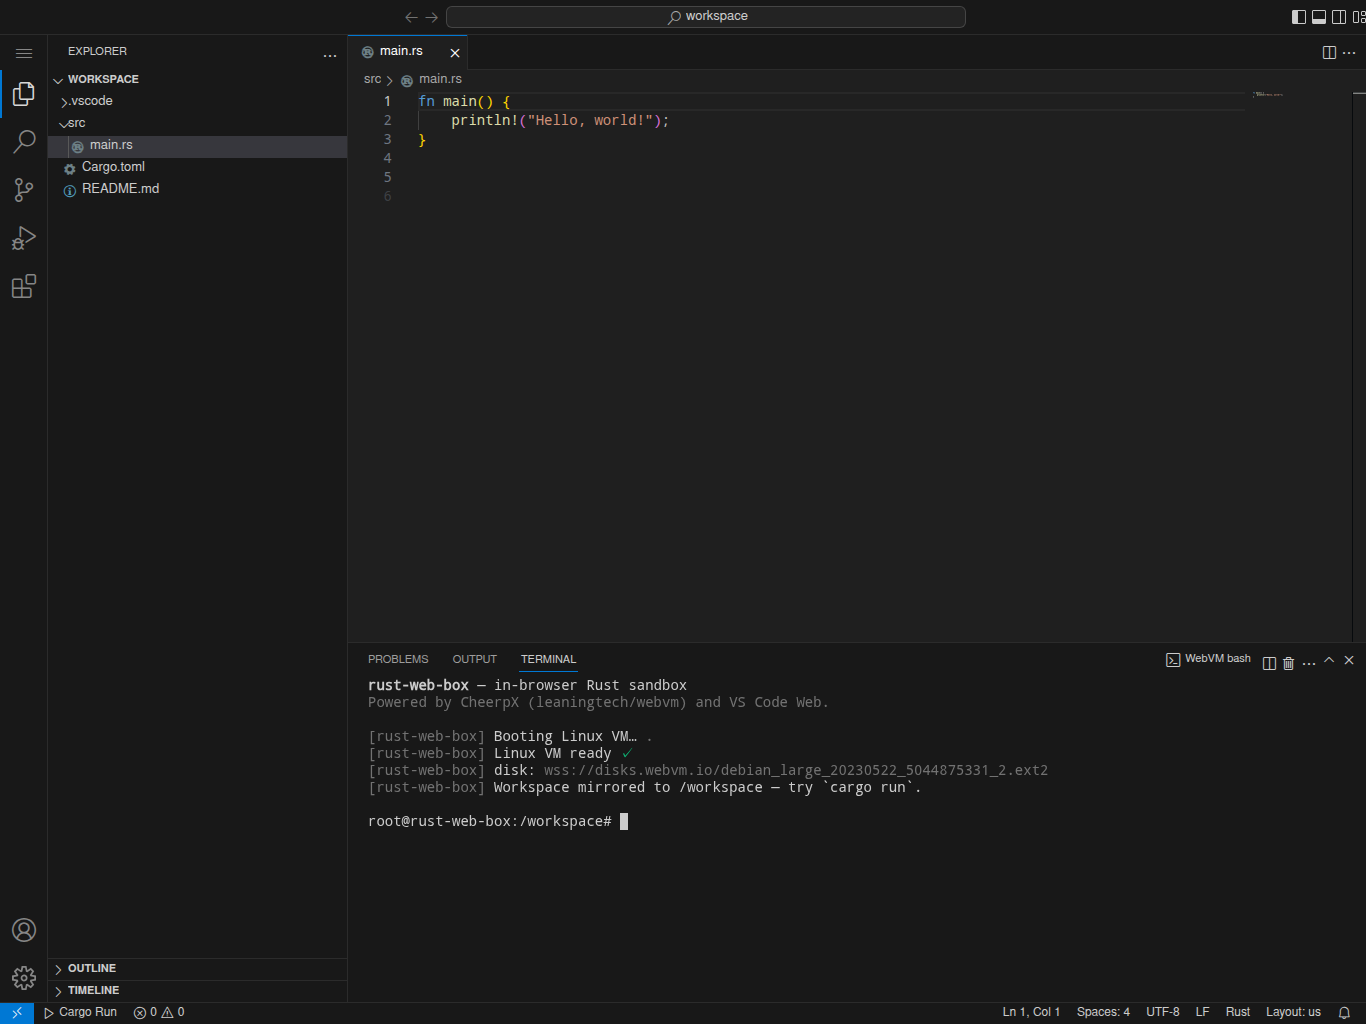
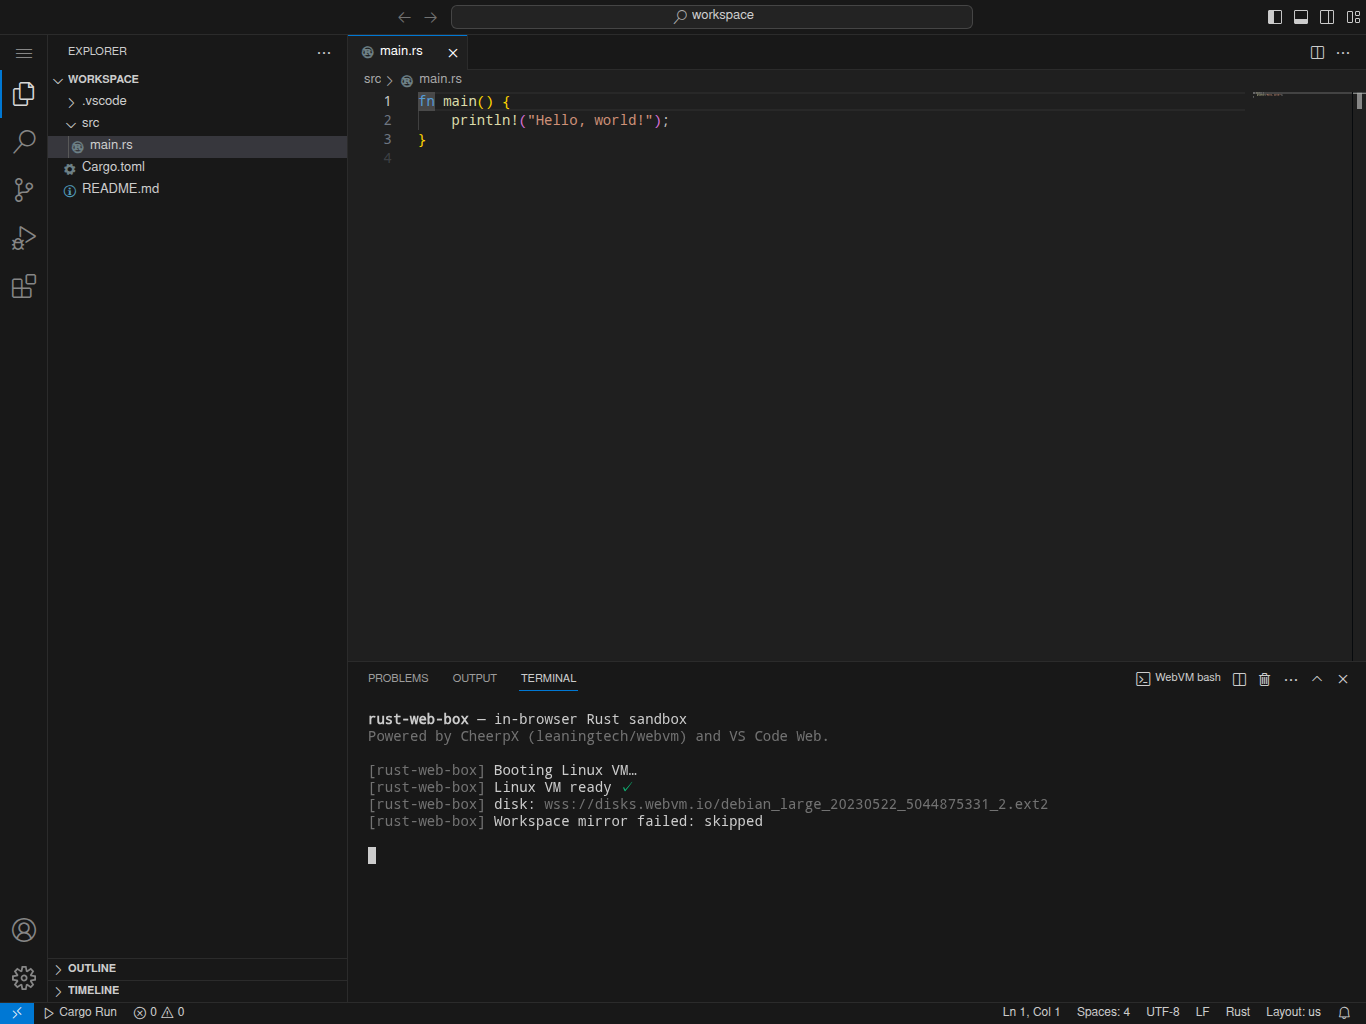
fix(web): preserve vscode control geometry

diff --git a/web/glue/boot.css b/web/glue/boot.css
@@ -28,10 +28,6 @@ body {
   overflow: hidden;
 }
 
-* {
-  box-sizing: border-box;
-}
-
 #boot-toast {
   position: fixed;
   /* Offset by the safe-area insets so the toast clears the iPad
@@ -47,6 +43,13 @@ body {
   max-width: 360px;
   box-shadow: 0 4px 16px rgba(0, 0, 0, 0.4);
   line-height: 1.35;
+  /* Keep box sizing scoped to our toast. VS Code Web relies on its own
+   * content-box geometry for action buttons and tree expanders. */
+  box-sizing: border-box;
+}
+
+#boot-toast * {
+  box-sizing: border-box;
 }
 
 #boot-toast[hidden] {

diff --git a/docs/case-studies/issue-37/README.md b/docs/case-studies/issue-37/README.md
@@ -38,16 +38,21 @@ in this single PR.
   **Fix:** ship `workbench.colorTheme: "Default Dark Modern"` from every
   place the workbench configuration is produced.
 
-- **CSS clipping (confirmed, fixed).** `html, body` used
-  `width: 100vw; height: 100vh`. On Safari (desktop *and* iPad) `100vw`
-  is the layout-viewport width *including* the classic-scrollbar /
-  visual-viewport gutter, so the body ends up a few px wider than the
-  visible area. Because the workbench sets `overflow: hidden`, the
-  title-bar and panel controls that lay out against the right edge get
-  clipped — exactly the red-marked misalignment. **Fix:**
-  `position: fixed; inset: 0` (always matches the *visible* viewport and
-  also dodges the `100vh` dynamic-toolbar bug), `viewport-fit=cover`, and
-  `env(safe-area-inset-*)` offsets on the boot toast.
+- **CSS clipping / control geometry (confirmed, fixed).** There were two
+  CSS regressions. First, `html, body` used `width: 100vw; height: 100vh`.
+  On Safari (desktop *and* iPad) `100vw` is the layout-viewport width
+  *including* the classic-scrollbar / visual-viewport gutter, so the body
+  ends up a few px wider than the visible area. Because the workbench sets
+  `overflow: hidden`, right-edge title-bar and panel controls get clipped.
+  Second, `boot.css` applied a global `* { box-sizing: border-box }` reset
+  over the entire VS Code Web workbench. VS Code's action buttons and tree
+  expanders rely on content-box sizing plus padding; the reset shrank 16 px
+  controls and their hover hitboxes, exactly matching the small-button /
+  expander offsets called out in review. **Fix:** `position: fixed;
+  inset: 0` (always matches the *visible* viewport and also dodges the
+  `100vh` dynamic-toolbar bug), `viewport-fit=cover`,
+  `env(safe-area-inset-*)` offsets on the boot toast, and no global
+  box-sizing reset outside our toast.
 
 - **iPad terminal (root cause in CheerpX; mitigated + made visible).**
   The terminal pipeline is sound; the failure lives in the CheerpX
@@ -79,14 +84,20 @@ in this single PR.
 
 1. **v0.14.0 deployed** to GitHub Pages (commit `786da32`). The workbench
    mounts directly into `<body>`; no `workbench.colorTheme` default ships,
-   and `boot.css` pins the body with `100vw/100vh`.
+   and `boot.css` pins the body with `100vw/100vh` while also applying a
+   global `box-sizing: border-box` reset to VS Code Web internals.
 2. **Reporter opens the app on an iPad** in Safari next to vscode.dev and
    files issue #37 with two screenshots and three defects.
 3. **Investigation (this PR).**
    - Reproduced the *theme* defect live with Playwright: the body class is
      `…light_modern-json`, confirming the OS-fallback root cause.
    - Reproduced the *CSS clipping* mechanism by analysis + the documented
-     Safari `100vw` scrollbar-gutter bug (see `online-research.md`).
+     Safari `100vw` scrollbar-gutter bug (see `online-research.md`), then
+     reproduced the reviewer-visible small-button / expander geometry bug
+     with Playwright DOM measurements: title/panel action labels rendered
+     as 16 px `border-box` boxes instead of 22 px `content-box` boxes, and
+     Explorer twisties rendered as 16 px boxes with a 20 px label offset
+     instead of 30 px / 34 px.
    - Could **not** reproduce the *iPad terminal* defect (no iPad
      hardware); confirmed from the code that bash failures were swallowed
      by a silent retry loop.
@@ -97,19 +108,22 @@ in this single PR.
    `HISTFILE=/dev/null`) and `web/disk/Dockerfile.disk`, with diagnostics
    in `web/glue/boot.js`, `web/glue/browser-info.js`, `web/glue/debug.js`.
    CheerpX bumped to the latest **1.3.3** across all code, tests, and docs.
-5. **Regression tests** added in `web/tests/issue-37-ux-parity.test.mjs`
-   and `web/tests/webvm-server.test.mjs` (silent-spawn watchdog: fires the
-   advisory on no-output, and stays quiet when a prompt is printed).
+5. **Regression tests** added in `web/tests/issue-37-ux-parity.test.mjs`,
+   `web/tests/webvm-server.test.mjs`, and
+   `web/tests/e2e/local-pages-e2e.test.mjs` (source assertions for theme,
+   viewport, safe area, scoped box sizing, and diagnostics; silent-spawn
+   watchdog integration tests; plus an e2e DOM-geometry test that checks
+   action buttons and Explorer expanders at rest and on hover).
 
 ## Requirements checklist (verbatim from the issue)
 
 | # | Requirement | Status |
 | --- | --- | --- |
 | R1 | Terminal must work in Safari on iPad | **Root-caused + mitigated** — failure is the CheerpX `OverlayDevice 'a1'` wedge; added a first-output watchdog with a visible in-terminal advisory, `HISTFILE=/dev/null` to avoid fresh-inode churn, and bumped CheerpX to 1.3.3. The unfixable-from-JS core is reported upstream. |
-| R2 | Fix CSS offsets/margins/paddings causing misalignment in all browsers | **Fixed** — `position:fixed;inset:0` + safe-area insets. |
+| R2 | Fix CSS offsets/margins/paddings causing misalignment in all browsers | **Fixed** — `position:fixed;inset:0`, safe-area insets, and removal of the global `box-sizing` reset that shrank VS Code action buttons/tree expanders. |
 | R3 | Apply the dark theme like vscode.dev | **Fixed** — `Default Dark Modern` default. |
 | R4 | Consider latest versions of all components | **Done** — CheerpX bumped 1.3.0 → latest 1.3.3; `vscode-web@1.91.1` is already latest. See *Component versions* below. |
-| R5 | Follow best UI/UX practices for all devices; compare actual DOM | **Done** — live DOM compared via Playwright; `viewport-fit=cover` + safe-area added for notch/home-indicator devices. |
+| R5 | Follow best UI/UX practices for all devices; compare actual DOM | **Done** — live DOM compared via Playwright; e2e tests now assert workbench viewport fill, action-button width/box sizing, Explorer twistie offset, and hover geometry; `viewport-fit=cover` + safe-area added for notch/home-indicator devices. |
 | R6 | Compile issue data to `docs/case-studies/issue-37` and do deep analysis | **This document** + `online-research.md` + `evidence/`. |
 | R7 | Search online for additional facts | **Done** — `online-research.md`. |
 | R8 | Reconstruct timeline, list requirements, root-cause each, propose plans, survey libraries | **This document.** |
@@ -140,13 +154,27 @@ config writers in `web/build/build-workbench.mjs` (`writeProductJson` and
 scrollbar/visual-viewport gutter (documented WebKit behaviour — see
 `online-research.md`), so a `width: 100vw` body is slightly wider than the
 visible area. The workbench's `overflow: hidden` then clips whatever lays
-out against the right/bottom edges (title-bar actions, panel toggles) —
-the red-marked misalignment. The classic `100vh` dynamic-toolbar bug
-compounds it on mobile Safari. **Fix:** drop `100vw/100vh` entirely and
-pin the body to the *visible* viewport with `position: fixed; inset: 0`,
-add `viewport-fit=cover` so the workbench paints edge-to-edge under the
-notch/home-indicator, and offset the only floating element (the boot
-toast) by `env(safe-area-inset-*)` so it clears the rounded corners.
+out against the right/bottom edges (title-bar actions, panel toggles).
+The classic `100vh` dynamic-toolbar bug compounds it on mobile Safari.
+
+The reviewer-visible small-button / expander offsets had a second, local
+root cause: `boot.css` applied `* { box-sizing: border-box }` globally.
+VS Code Web action labels and tree twisties are built around fixed
+content widths plus padding. With the reset in place, Playwright measured
+the layout/customize and split-editor action labels as 16 px
+`border-box` controls; after removing the reset, the same controls
+returned to VS Code's expected 22 px `content-box` geometry. Explorer
+twisties likewise moved from 16 px boxes with a 20 px label offset to
+30 px boxes with a 34 px label offset. The same e2e test repeats the
+measurements after hovering the title-bar button and the `.vscode` tree
+row, covering the "on hover and without" feedback from PR review.
+
+**Fix:** drop `100vw/100vh` entirely and pin the body to the *visible*
+viewport with `position: fixed; inset: 0`; add `viewport-fit=cover` so the
+workbench paints edge-to-edge under the notch/home-indicator; offset the
+only floating element (the boot toast) by `env(safe-area-inset-*)`; and
+scope `box-sizing: border-box` to `#boot-toast` only so VS Code Web keeps
+its own geometry.
 
 ### R1 — iPad terminal (ROOT-CAUSED → mitigated + made visible)
 
@@ -247,6 +275,13 @@ reproducible example, the workarounds we ship, and a fix suggestion. See
   unsupported in Safari per Smashing Magazine)*; (d) JS
   `--vh` custom-property hack *(rejected — adds runtime JS for what CSS
   solves)*.
+- **Control geometry.** (a) Remove the global box-sizing reset and scope
+  it to the boot toast *(chosen — preserves VS Code Web's own content-box
+  sizing and hover hitboxes)*; (b) override individual VS Code selectors
+  for title actions, panel actions, and tree twisties *(rejected — brittle
+  against upstream VS Code CSS changes)*; (c) add compensating margins /
+  padding to our container *(rejected — masks one viewport but leaves the
+  underlying third-party geometry changed)*.
 - **Terminal.** (a) Make the silent wedge observable *and* visible to the
   user via the first-output watchdog + in-terminal advisory, reduce its
   trigger rate with `HISTFILE=/dev/null`, ship the latest CheerpX, and
@@ -279,6 +314,8 @@ Vendored after this PR: `vscode-web@1.91.1` (already the latest published
 `vscode-web`) and CheerpX **1.3.3** (bumped from 1.3.0; pinned in
 `web/build/build-workbench.mjs`, `web/glue/cheerpx-bridge.js`, the service
 worker cache key, and the vendored `web/cheerpx/.version`).
+The `web/cheerpx/README.md` pinned-version note is also updated so the
+vendor directory documentation matches the shipped runtime.
 
 CheerpX latest was confirmed empirically: `cxcore.js` is served for
 1.3.0–1.3.3 (HTTP 200) but 1.3.4 returns HTTP 204, so 1.3.3 is the newest
@@ -300,27 +337,48 @@ local Chromium boot.
 
 ## Verification
 
-- `node --test web/tests/` — full suite green (236 pass / 4 skipped / 0
+- `node --test web/tests/` — full suite green (239 pass / 4 skipped / 0
   fail), including:
   - `issue-37-ux-parity.test.mjs` — theme/viewport/diagnostics **and**
-    the first-output watchdog + advisory source assertions.
+    the scoped-box-sizing regression assertion, plus the first-output
+    watchdog + advisory source assertions.
   - `webvm-server.test.mjs` — two integration tests for the silent-spawn
     watchdog: it fires the `no-output` advisory (`vm.shell` event +
     `proc.stdout` "produced no prompt" text + `silentSpawns`/
     `slowFirstOutput`) when bash is silent, and stays quiet when a prompt
     is printed before the window.
-- Built the workbench locally (`node web/build/build-workbench.mjs`) and
-  rendered it via Playwright (Chromium) at desktop and iPad viewports.
+- `RUST_WEB_BOX_E2E=1 RUST_WEB_BOX_E2E_NO_SANDBOX=1 node --test
+  --test-name-pattern "issue #37" web/tests/e2e/local-pages-e2e.test.mjs`
+  — focused e2e green (1 pass / 3 skipped by name pattern / 0 fail). This
+  test failed before the CSS fix with `layout button must keep VS Code box
+  sizing` (`border-box` instead of `content-box`). It now asserts, at rest
+  and after hover, that title/panel action buttons keep 22 px content-box
+  hitboxes, stay inside the viewport, and Explorer labels do not slide
+  under their twisties.
+- Built the workbench locally (`SKIP_CHEERPX=1 node
+  web/build/build-workbench.mjs`) and rendered it via Playwright
+  (Chromium) at desktop and iPad viewports.
   Confirmed:
   - `.monaco-workbench` class is
     `… vs-dark vscode-theme-defaults-themes-dark_modern-json` (dark theme
     now applied — was `light_modern` before).
   - `getComputedStyle(document.documentElement).position === 'fixed'`
     (the `inset: 0` pin is active, not `100vw/100vh`).
+  - Title/panel action buttons measure 22 px wide with
+    `box-sizing: content-box`; the Explorer twistie measures 30 px wide.
   - `document.body` background is `rgb(30, 30, 30)`.
   - See `screenshots/after-dark-theme.png`,
     `screenshots/after-ipad-portrait.png`,
     `screenshots/after-ipad-landscape.png`.
+- Repo quality checks passed:
+  - `cargo fmt --all -- --check`
+  - `cargo clippy --all-targets --all-features`
+  - `cargo test --all-features --verbose`
+  - `cargo test --doc --verbose`
+  - `rust-script scripts/check-file-size.rs`
+  - `rust-script scripts/check-changelog-fragment.rs`
+  - `rust-script scripts/check-version-modification.rs` (expected local
+    skip outside a GitHub PR event)
 - Playwright is Chromium-only, so the *Safari/iPad-specific* CheerpX wedge
   cannot be reproduced in this harness; the iPad screenshots verify the
   theme + viewport fixes at iPad dimensions, and the terminal mitigation

diff --git a/docs/case-studies/issue-37/online-research.md b/docs/case-studies/issue-37/online-research.md
@@ -29,8 +29,8 @@ Related WebKit behaviour:
   Community; Medium / Susie Kim).
 
 **→** Our `html, body { width: 100vw; height: 100vh }` was the root cause
-of the clipped controls: `overflow: hidden` on the workbench then crops
-the few px of overflow exactly where the title-bar/panel actions sit. We
+of one clipping vector: `overflow: hidden` on the workbench then crops the
+few px of overflow exactly where the title-bar/panel actions sit. We
 replaced it with `position: fixed; inset: 0`, which always equals the
 *visible* viewport box and side-steps both the `100vw` scrollbar-gutter
 bug and the `100vh` toolbar bug. (Note: the scroll-lock community warns
@@ -44,7 +44,27 @@ Sources:
 - [Medium — Addressing the iOS Viewport Unit Bug](https://medium.com/@susiekim9/how-to-compensate-for-the-ios-viewport-unit-bug-46e78d54af0d)
 - [WebKit Bug 153852 — body overflow:hidden scrollable on iOS](https://bugs.webkit.org/show_bug.cgi?id=153852)
 
-## 2. VS Code theme selection / default
+## 2. Global `box-sizing` resets can change third-party control geometry
+
+MDN documents that `box-sizing` controls how an element's total width and
+height are calculated. With the default `content-box`, padding and border
+are added to the declared width; with `border-box`, padding and border are
+included inside the declared width and the content box shrinks.
+
+**→** Our `* { box-sizing: border-box }` reset changed VS Code Web's
+internal geometry. VS Code action labels and tree twisties use fixed
+content widths with padding for icon and hover hitbox spacing. Playwright
+DOM measurements showed title/panel action labels rendered as 16 px
+`border-box` boxes instead of 22 px `content-box` boxes, and Explorer
+twisties rendered as 16 px boxes with a 20 px label offset instead of
+30 px / 34 px. Removing the global reset and scoping `border-box` to the
+boot toast restored the expected VS Code geometry without changing our
+own shell UI.
+
+Sources:
+- [MDN — box-sizing CSS property](https://developer.mozilla.org/en-US/docs/Web/CSS/box-sizing)
+
+## 3. VS Code theme selection / default
 
 > "VS Code … preferred dark and light color themes … default to Dark
 > Modern and Light Modern respectively. The `workbench.colorTheme`
@@ -67,7 +87,7 @@ Sources:
 - [VS Code Docs — Themes](https://code.visualstudio.com/docs/configure/themes)
 - [microsoft/vscode#137635 — colorTheme restores to Default Dark+ automatically](https://github.com/microsoft/vscode/issues/137635)
 
-## 3. CheerpX / WebVM on Safari, iOS and iPadOS
+## 4. CheerpX / WebVM on Safari, iOS and iPadOS
 
 > "WebVM and CheerpX are compatible with any browser, both on Desktop
 > (Chrome/Chromium, Edge, Firefox, Safari) and Mobile (Chrome, Safari),
@@ -100,7 +120,7 @@ Sources:
 - [LambdaTest — WebAssembly browser support (Safari)](https://www.lambdatest.com/web-technologies/wasm-safari)
 - [Apple Developer Forums — Safari SharedArrayBuffer support](https://developer.apple.com/forums/thread/678808)
 
-## 4. Safe-area insets / `viewport-fit=cover`
+## 5. Safe-area insets / `viewport-fit=cover`
 
 The platform-standard way to paint edge-to-edge under the iPad/iPhone
 notch and home-indicator is `<meta name="viewport"

diff --git a/changelog.d/20260529_000000_issue_37_ux_parity.md b/changelog.d/20260529_000000_issue_37_ux_parity.md
@@ -5,6 +5,7 @@ bump: patch
 ### Fixed
 - Apply the dark theme by default (`workbench.colorTheme: "Default Dark Modern"`), matching vscode.dev. The workbench previously had no theme default and fell back to the OS `prefers-color-scheme`, rendering Light Modern (issue #37).
 - Fix UI controls being clipped/misaligned on iPad Safari (and any browser with a classic scrollbar): pin the workbench with `position: fixed; inset: 0` instead of `width: 100vw; height: 100vh`, which on Safari resolves wider/taller than the visible viewport and gets cropped by `overflow: hidden` (issue #37).
+- Remove the global `* { box-sizing: border-box }` reset from the VS Code workbench surface and scope it to the boot toast only; the reset shrank VS Code's fixed-width action buttons and tree expanders, causing the small-button/hover/expander offsets called out in PR review (issue #37).
 - Add `viewport-fit=cover` and `env(safe-area-inset-*)` offsets so the workbench paints edge-to-edge and the boot toast clears the iPad notch/home-indicator.
 - iPad-Safari terminal: root-caused the "terminal does not work" symptom to the CheerpX `OverlayDevice 'a1'` fresh-inode wedge (the same upstream bug as issues #15/#17, now triggered by interactive `bash --login` allocating a fresh `~/.bash_history` inode). Set `HISTFILE=/dev/null` everywhere bash starts so it no longer allocates that inode, reducing the wedge rate (issue #37).
 
@@ -16,4 +17,4 @@ bump: patch
 - Interactive-shell health diagnostics: `runShellLoop` records spawn/exit/error/fast-cycle counts plus output-byte timing into the server runtime, surfaces a toast when the shell repeatedly fails to start, and exposes the data via `__rustWebBox.dump()`.
 - Apple-platform detection in `browser-info` (`isSafari`/`isIOS`/`isIPad`, using `maxTouchPoints` since iPadOS Safari reports as "Macintosh"), reported in `dumpRuntime()` for actionable bug reports.
 - Filed the CheerpX `OverlayDevice 'a1'` wedge upstream as [leaningtech/webvm#222](https://github.com/leaningtech/webvm/issues/222) — the single canonical report covering all three triggers (workspace prime, `cargo run`, interactive bash), with a reproducer, the shipped workarounds, and a fix suggestion (issue #37).
-- Case study `docs/case-studies/issue-37/` with timeline, requirements checklist, root-cause analysis, online research, before/after iPad screenshots, and the upstream report.
+- Case study `docs/case-studies/issue-37/` with timeline, requirements checklist, root-cause analysis, online research, before/after iPad screenshots, e2e geometry coverage, and the upstream report.

diff --git a/web/cheerpx/README.md b/web/cheerpx/README.md
@@ -4,7 +4,7 @@ CheerpX runtime vendor directory. CI populates this with
 `cx.esm.js` (the CheerpX entry point) and any auxiliary assets pulled
 from `https://cxrtnc.leaningtech.com/<version>/`.
 
-Pinned version: `1.2.8` (see `web/build/build-workbench.mjs`).
+Pinned version: `1.3.3` (see `web/build/build-workbench.mjs`).
 
 The `.version` file in this directory is the build-step stamp; updating
 it triggers a re-vendor on the next CI run.